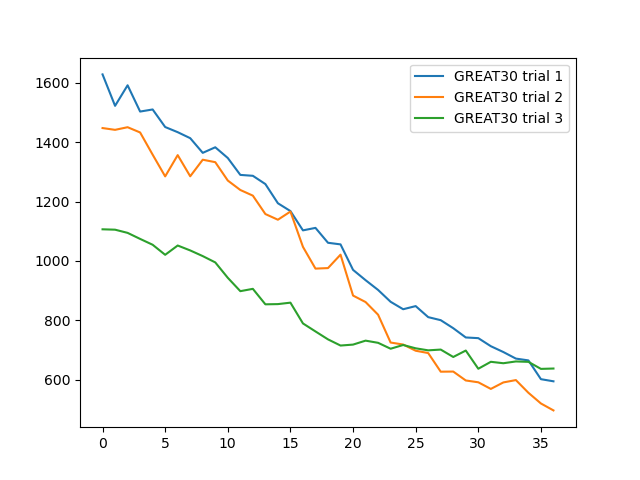
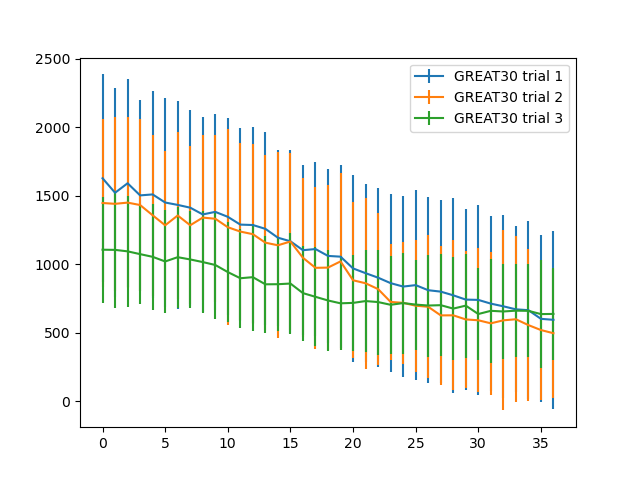
add standard deviation. makes graphs uglier

diff --git a/graph.py b/graph.py
@@ -1,40 +1,45 @@
-import pandas
+import pandas as pd
 from matplotlib import pyplot as plt
 import os
+import numpy as np
 
 
 # Set path to be the folder containing the folders that contain the csvs
-path = r"C:/Users/14403/Desktop/Gerdt Lab/Currently Working On/processed-data/fluor_csvs/"
-# path = "/home/bkallus/Python-Scripts-for-Graphing/fluor_csvs/"
+# path = r"C:/Users/14403/Desktop/Gerdt Lab/Currently Working On/processed-data/fluor_csvs/")
+path = "/home/bkallus/Python-Scripts-for-Graphing/fluor_csvs/"
 
 subdirs = os.listdir(path)
 for subdir in subdirs: # For each experiment
     subfilenames = os.listdir(path + "/" + subdir)
     df_list = [] # Contains one DataFrame for each trial
     average_lists = [] # Contains one list of averages (to be plotted) for each trial
+    std_lists = [] # Contains one list of standard deviations (to be plotted) for each trial
 
     for subfilename in subfilenames: # For each trial
-        df = pandas.read_csv(path + "/" + subdir + "/" + subfilename, sep=',', skiprows=3)
+        df = pd.read_csv(path + "/" + subdir + "/" + subfilename, sep=',', skiprows=3)
         for i, (name, data) in enumerate(df.iteritems()): # Find the first NaN
-            if pandas.isna(data[0]):
+            if pd.isna(data[0]):
                 last_val = data[0]
                 break
 
         columns_to_drop = [df.columns[0]] # Drop the first column because it's just a timestamp
-        if pandas.isna(last_val): # If there is a NaN in the first row
+        if pd.isna(last_val): # If there is a NaN in the first row
             columns_to_drop += list(df.columns[i:]) # Cut off all the columns past the first one with a NaN in the first row
 
         df = df.drop(columns=columns_to_drop)
         df_list.append(df)
 
         average_list = []
+        std_list = []
         for name, data in df.iterrows(): # For each row in the sliced csv
             average_list.append(data.sum() / len(data)) # Average the row and save it
+            std_list.append(data.std())
 
         average_lists.append(average_list)
+        std_lists.append(std_list)
 
-    for trial, listy in enumerate(average_lists):
-        plt.plot(listy, label = subdir + " trial " + str(trial + 1))
+    for i in range(len(average_lists)):
+        plt.errorbar(x=list(range(len(average_lists[i]))), y=average_lists[i], yerr=std_lists[i], label=(subdir + " trial " + str(i + 1)))
 
     plt.legend()
     plt.savefig(fname = "graphs" + "/" + subdir + "_graph")
